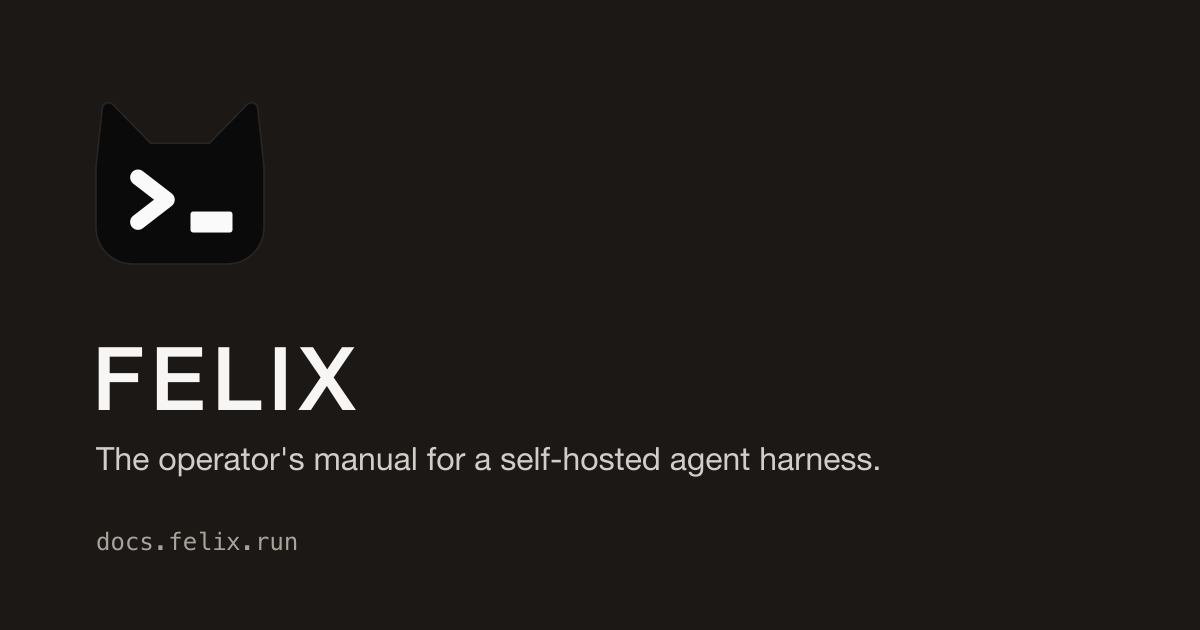
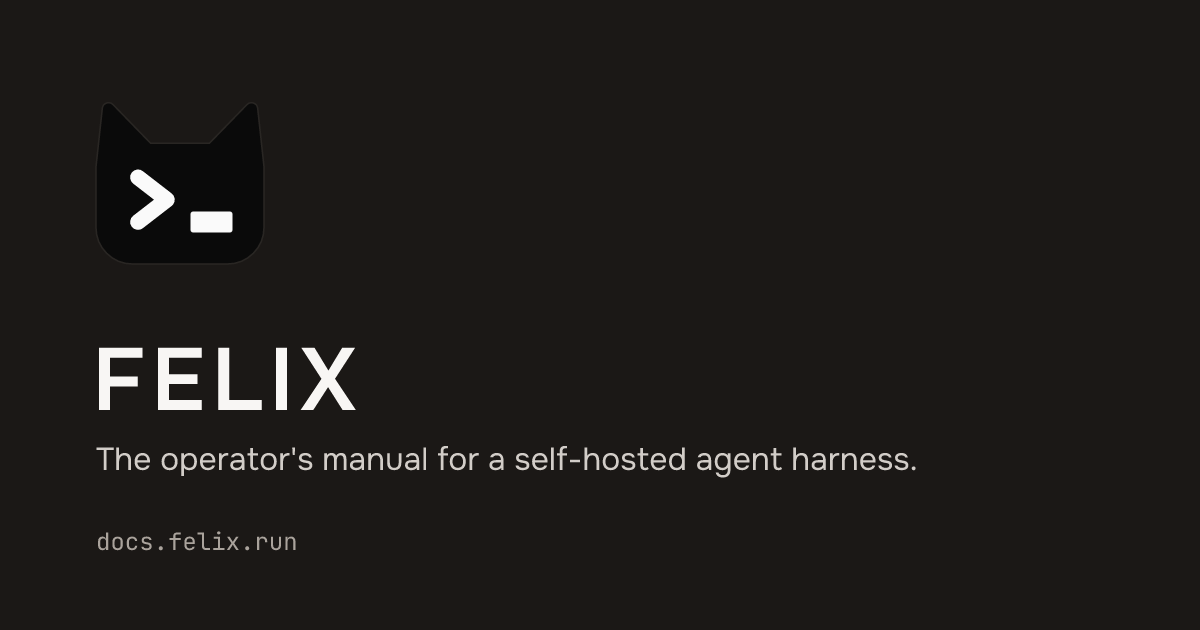
Set the docs' social card in Onest and JetBrains Mono.
The card now renders through @resvg/resvg-js, which takes font files directly,
instead of rsvg-convert, which on macOS lays text out through CoreText and
ignores any font it is pointed at. resvg reads only TTF/OTF and does not apply
a variable font's weight axis (600 drew as 400), so the faces are the static
per-weight @fontsource files (Onest 400 and 600, JetBrains Mono 400), decoded
from woff2 by wawoff2 into the scratch dir. They are decoded one at a time:
concurrently, the single wasm instance handed one face's bytes to another's
file and the card came out with the two faces swapped. System fonts are off, so
a missing face fails rather than falling back. The output is deterministic
(same bytes on re-run), and the other twelve brand files are untouched.

diff --git a/packages/design/scripts/sync-brand.ts b/packages/design/scripts/sync-brand.ts
@@ -10,13 +10,20 @@
  *
  * Rasterising needs `rsvg-convert` (librsvg) and `magick` (ImageMagick) on the
  * PATH; on macOS, `brew install librsvg imagemagick`. They are a dependency of
- * regenerating, not of building, which is why neither is in package.json.
+ * regenerating, not of building, which is why neither is in package.json. The
+ * social card is the exception: it is set in Onest and JetBrains Mono, which rsvg
+ * cannot load, so it renders through `@resvg/resvg-js` with the faces decoded by
+ * `wawoff2` — dev dependencies of this package, since they are npm and not a PATH.
  */
 import { execFileSync } from 'node:child_process';
-import { mkdirSync, mkdtempSync, rmSync, writeFileSync } from 'node:fs';
+import { mkdirSync, mkdtempSync, readFileSync, rmSync, writeFileSync } from 'node:fs';
+import { createRequire } from 'node:module';
 import { tmpdir } from 'node:os';
 import { dirname, join } from 'node:path';
 import { fileURLToPath } from 'node:url';
+import { Resvg } from '@resvg/resvg-js';
+// @ts-expect-error -- wawoff2 ships no types; `decompress(Uint8Array): Promise<Uint8Array>`.
+import { decompress } from 'wawoff2';
 import {
   MARK_CHEVRON,
   MARK_CURSOR,
@@ -126,10 +133,13 @@ write(join(docsAssets, 'mark-dark.svg'), `${markSvg({ inverted: true })}\n`);
  * card warms with them; the mark is the tab mark at scale, set on a hairline so the
  * dark head does not dissolve into a dark field.
  *
- * The type is the platform's sans and mono, not the docs' Onest and JetBrains Mono:
- * rsvg-convert on macOS lays text out through CoreText and ignores a scratch
- * fontconfig, so a self-hosted face cannot reach it (tested 2026-10-10 — "Onest" and
- * a made-up family rendered byte-identically).
+ * Set in the docs' own faces, Onest and JetBrains Mono, so it is rendered by resvg,
+ * which takes font files directly, and not by rsvg-convert: on macOS rsvg lays text
+ * out through CoreText and ignores any font it is pointed at (tested 2026-10-10: "Onest"
+ * and a made-up family rendered byte-identically). resvg reads only TTF/OTF and does
+ * not apply a variable font's weight axis (600 drew as 400), so the faces are the
+ * static per-weight `@fontsource` files, decoded from woff2 into the scratch dir.
+ * System fonts are off, so a missing face fails here rather than falling back.
  */
 function socialCard(): string {
   const w = 1200;
@@ -138,8 +148,8 @@ function socialCard(): string {
   const x = 96;
   const y = 96;
   const k = size / MARK_GRID;
-  const sans = "-apple-system, 'Helvetica Neue', Helvetica, Arial, sans-serif";
-  const mono = "ui-monospace, Menlo, 'SF Mono', monospace";
+  const sans = 'Onest';
+  const mono = 'JetBrains Mono';
   return `<svg xmlns="http://www.w3.org/2000/svg" width="${w}" height="${h}" viewBox="0 0 ${w} ${h}">
   <rect width="${w}" height="${h}" fill="${DARK.bg}"/>
   <g transform="translate(${x} ${y}) scale(${k})">
@@ -153,7 +163,36 @@ function socialCard(): string {
 </svg>`;
 }
 
-png(socialCard(), 1200, join(docsPublic, 'og.png'), 630);
+const fontFile = createRequire(import.meta.url);
+const CARD_FACES = [
+  '@fontsource/onest/files/onest-latin-400-normal.woff2',
+  '@fontsource/onest/files/onest-latin-600-normal.woff2',
+  '@fontsource/jetbrains-mono/files/jetbrains-mono-latin-400-normal.woff2',
+];
+// One at a time: wawoff2 is a single wasm instance, and decoding concurrently handed
+// one face's bytes to another's file (the card came out with Onest and JetBrains Mono
+// swapped).
+async function cardFonts(): Promise<string[]> {
+  const files: string[] = [];
+  for (const [i, spec] of CARD_FACES.entries()) {
+    const ttf = join(scratch, `card-${i}.ttf`);
+    writeFileSync(ttf, await decompress(readFileSync(fontFile.resolve(spec))));
+    files.push(ttf);
+  }
+  return files;
+}
+
+const og = join(docsPublic, 'og.png');
+const card = new Resvg(socialCard(), {
+  fitTo: { mode: 'width', value: 1200 },
+  font: { fontFiles: await cardFonts(), loadSystemFonts: false, defaultFontFamily: 'Onest' },
+}).render();
+if (card.width !== 1200 || card.height !== 630) {
+  throw new Error(`social card rendered ${card.width}x${card.height}, expected 1200x630`);
+}
+mkdirSync(dirname(og), { recursive: true });
+writeFileSync(og, card.asPng());
+written.push(og.slice(root.length));
 
 rmSync(scratch, { recursive: true, force: true });
 console.log(`wrote ${written.length} files:\n  ${written.join('\n  ')}`);
